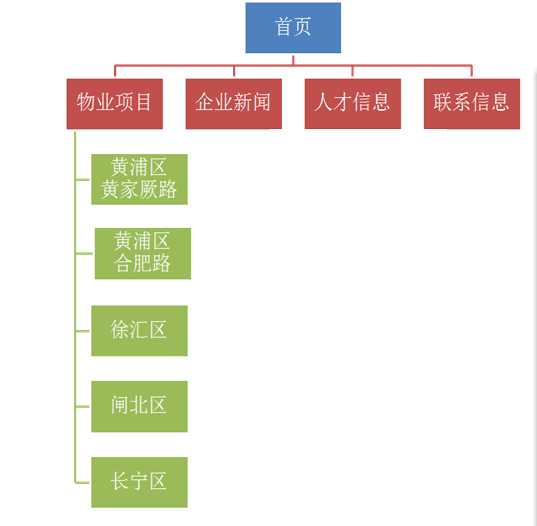
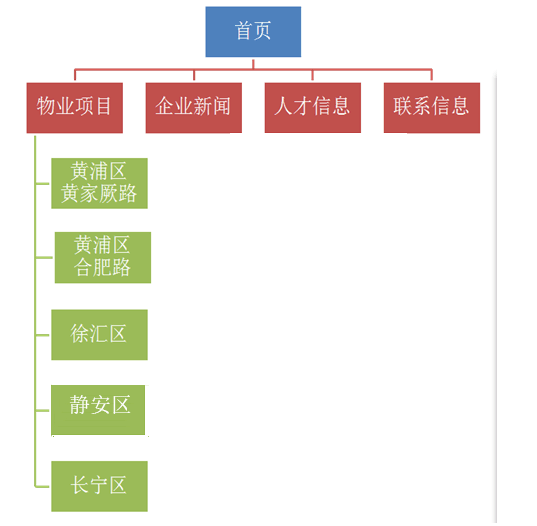
增加了新的Navigation页面

Changed region(s): [[0.0298, 0.0, 1.0, 1.0]]

diff --git a/src/html/index/index.html b/src/html/index/index.html
@@ -77,7 +77,12 @@
             <div>海文物业</div>
             <h3>黄浦区</h3>
 
-            <div>黄家阙路92号<br>合肥路315号</div>
+            <div>黄家阙路92号</div>
+            <p>邮箱：fsy@hero.com.cn  范经理</p>
+            <p>电话：63459826 、63457403</p>
+            <div>合肥路315号</div>
+            <p>邮箱：dy@hero.com.cn 戴经理</p>
+            <p>电话：53963904、63844102</p>
             <a href="houses-hp.html">了解更多</a>
           </div>
           <div class="yx-square-item yx-in-2">
@@ -85,6 +90,8 @@
             <h3>静安区</h3>
 
             <div>天目中路383号</div>
+            <p> 邮箱： zgq@hero.com.cn 张经理</p>
+            <p> 电话：63540999、63179914</p>
             <a href="houses-zb.html">了解更多</a>
           </div>
           <div class="yx-square-item">
@@ -98,6 +105,8 @@
             <h3>徐汇区</h3>
 
             <div>斜土路2897弄50号</div>
+            <p> 邮箱：zx@hero.com.cn 郑经理</p>
+            <p> 电话：64384058、64640844</p>
             <a href="houses-xh.html">了解更多</a>
           </div>
           <div class="yx-square-item yx-in-4">
@@ -105,6 +114,8 @@
             <h3>长宁区</h3>
 
             <p>江苏路876号</p>
+            <p>邮箱：mym@hero.com.cn  茅经理</p>
+            <p>电话：62510843、62513109</p>
             <a href="houses-cn.html">了解更多</a>
           </div>
           <div class="yx-square-item"><img src="index-4.jpg" alt="images" /></div>
@@ -122,7 +133,12 @@
               <div>海文物业</div>
               <h3>黄浦区</h3>
 
-              <div>黄家阙路92号<br>合肥路315号</div>
+              <div>黄家阙路92号</div>
+              <p>邮箱：fsy@hero.com.cn  范经理</p>
+              <p>电话：63459826 、63457403</p>
+             <div>合肥路315号</div>
+              <p>邮箱：dy@hero.com.cn 戴经理</p>
+              <p>电话：53963904、63844102</p>
               <a href="houses-hp.html">了解更多</a>
             </div>
             <div class="yx-square-item">
@@ -133,6 +149,10 @@
               <h3>徐汇区</h3>
 
               <div>斜土路2897弄50号</div>
+             <p> 邮箱：zx@hero.com.cn 郑经理</p>
+             <p> 电话：64384058、64640844</p>
+
+
               <a href="houses-xh.html">了解更多</a>
             </div>
             <div class="yx-square-item">
@@ -143,6 +163,9 @@
               <h3>长宁区</h3>
 
               <p>江苏路876号</p>
+              <p>邮箱：mym@hero.com.cn  茅经理</p>
+              <p>电话：62510843、62513109</p>
+
               <a href="houses-cn.html">了解更多</a>
             </div>
             <div class="yx-square-item"><img src="index-2.jpg" alt="images" /></div>
@@ -151,6 +174,8 @@
               <h3>静安区</h3>
 
               <div>天目中路383号</div>
+             <p> 邮箱： zgq@hero.com.cn 张经理</p>
+             <p> 电话：63540999、63179914</p>
               <a href="houses-zb.html">了解更多</a>
             </div>
 
@@ -172,7 +197,7 @@
         <p class="yx-border-1">
           上海海文物业管理有限公司是上海英雄（集团）有限公司投资的全资子公司，公司成立于2004年4月，是具有国家物业管理三级企业资质的专业物业管理公司。公司成立以来，坚持用自己的行动实践“诚信、务实、进取”的企业精神，用自己的行动践行“发展不停步，温馨每一天”的企业愿景，树立以客户至上的服务理念，树立可持续健康稳定与效益最大化协调发展的经营理念，实践在管理中体现服务，在服务中推进管理。</p>
         <p class="yx-border-1">
-          海文物业作为英雄集团物业管理平台，经营管理以商务办公为主的物业，所属物业主要分布在徐汇、长宁、黄浦、虹口、闸北5个区，是理想的商务办公之选。</p>
+          海文物业作为英雄集团物业管理平台，经营管理以商务办公为主的物业，所属物业主要分布在徐汇、长宁、黄浦、静安等4个区，是理想的商务办公之选。</p>
       <p>多年来，公司在经营改造中能立足自我，形成特色；在服务管理中自我完善，规范标准；在转型发展中注重提升，实现突破。</p>
       <p>展望未来，公司将一如既往潜心打造物业品质，不断提升企业服务管理水平，赢得客户的信任与忠诚，赢得公司的持续稳健发展。</p>
     </div>

diff --git a/src/html/Contact/Contact.html b/src/html/Contact/Contact.html
@@ -65,28 +65,28 @@
     <div class="container">
         <div class="col-md-4 yx-con-1">
             <p>黄家阙路：</p>
-            <p>邮箱：<a href="fsy@hero.com.cn">fsy@hero.com.cn 范守芸</a></p>
-            <p>电话：63459826</p>
+            <p>邮箱：<a href="fsy@hero.com.cn">fsy@hero.com.cn 范经理</a></p>
+            <p>电话：63459826、63457403</p>
         </div>
         <div class="col-md-4 yx-con-1">
             <p>江苏路：</p>
-            <p>邮箱：<a href="mym@hero.com.cn">mym@hero.com.cn 茅云满</a> </p>
-            <p>电话：62510843</p>
+            <p>邮箱：<a href="mym@hero.com.cn">mym@hero.com.cn 茅经理</a> </p>
+            <p>电话：62510843、62513109</p>
         </div>
         <div class="col-md-4 yx-con-1">
             <p>斜土路：</p>
-            <p> 邮箱：<a href="zx@hero.com.cn">zx@hero.com.cn 郑祥 </a> </p>
-            <p>电话：64384058</p>
+            <p> 邮箱：<a href="zx@hero.com.cn">zx@hero.com.cn 郑经理</a> </p>
+            <p>电话：64384058、64640844</p>
         </div>
         <div class="col-md-4 yx-con-1">
             <p>天目中路：</p>
-            <p>邮箱：<a href="zgq@hero.com.cn"> zgq@hero.com.cn 张钢强 </a></p>
-            <p>电话：63540999</p>
+            <p>邮箱：<a href="zgq@hero.com.cn"> zgq@hero.com.cn 张经理</a></p>
+            <p>电话：63540999、63179914</p>
         </div>
         <div class="col-md-4 yx-con-1">
             <p>合肥路：</p>
-            <p>邮箱：<a href="dy@hero.com.cn">dy@hero.com.cn 戴燕 </a> </p>
-            <p>电话：53963904</p>
+            <p>邮箱：<a href="dy@hero.com.cn">dy@hero.com.cn 戴经理 </a> </p>
+            <p>电话：53963904、63844102</p>
         </div>
 
     </div>

diff --git a/src/html/index/houses-zb.html b/src/html/index/houses-zb.html
@@ -91,20 +91,19 @@
               <div class="col-sm-10">
                 <p> 天目路（静安区）</p>
 
-                <p> 现代不夜城，新静安地理中心。</p>海文大楼位于天目中路383号，地处不夜城商务中心，毗邻大悦城商圈，享有南北高架交通枢纽中心之便。
-                <p> 设施设备齐全，有停车库，是办公、商务及金融的理想场所。
-                  多种房型任客户挑选，是商务办公的理想之地。
-                </p>
+                <p> 现代不夜城，新静安地理中心。</p><p>海文大楼位于天目中路383号，地处不夜城商务中心，毗邻大悦城商圈，享有南北高架交通枢纽中心之便。</p>
+                <p>设施设备齐全，有停车库，周边商务环境成熟，是办公、商务及金融的理想场所。</p>
 
-                <P> 公共交通有地铁8号线、隧道一线、46、63、13、948路等。</P>
+
+                <P>公共交通有地铁8号线、隧道一线、46、63、13、948路等。</P>
 
                 <h3>联系方式</h3>
 
                 <p>天目中路：</p>
 
                 <div>邮箱：
-                  <a href="zgq@hero.com.cn"> 邮箱：zgq@hero.com.cn 张钢强 </a></div>
-                <p> 电话：63540999</p>
+                  <a href="zgq@hero.com.cn"> 邮箱：zgq@hero.com.cn 张经理 </a></div>
+                <p>电话：63540999、63179914</p>
                 <section>
                   <h4>天目中路商务楼</h4>
                   <img class="img-responsive" src="images/zb/zb-2.jpg" alt="图片" />

diff --git a/src/html/index/houses-cn.html b/src/html/index/houses-cn.html
@@ -93,17 +93,19 @@
 
                 <p> 经典华山路，尽显人文创意。</p>
 
-                <p> 贵冠商务中心位于江苏路876号，近华山路，地处静安、长宁、徐汇三区交界，交通便捷。商务中心出租商户面积最大可达800平方米，层高最高5.8米，多种房型任客户挑选，是商务办公的理想之地。</p>
+                <p>贵冠商务中心位于江苏路876号，毗邻兴国宾馆，地处静安、长宁、徐汇三区交界，交通便捷，各路文化创意精英汇集于此。商务中心出租商户面积最大可达800平方米，层高最高5.8米，多种房型任客户挑选，是商务办公的理想之地。
 
-                <P> 公共交通有地铁2号线、48、113、138、328、923 路等。</P>
+                </p>
+
+                <P>公共交通有地铁2号线、48、113、138、328、923 路等。</P>
 
                 <h3>联系方式</h3>
 
                 <p>江苏路：</p>
 
                 <div>邮箱：
-                  <a href="mym@hero.com.cn"> mym@hero.com.cn茅云满 </a></div>
-                <p> 电话：62510843</p>
+                  <a href="mym@hero.com.cn"> mym@hero.com.cn茅经理 </a></div>
+                <p>电话：62510843、62513109</p>
 
                 <section>
                   <h4>贵冠商务中心</h4>
